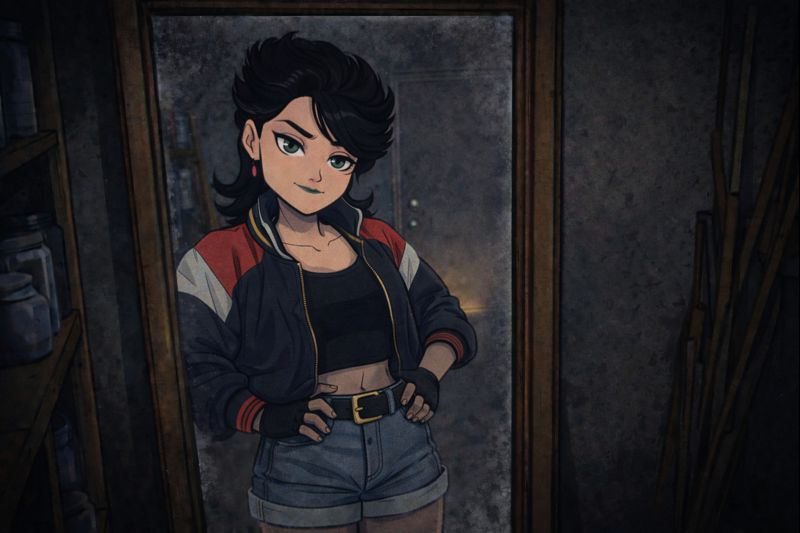
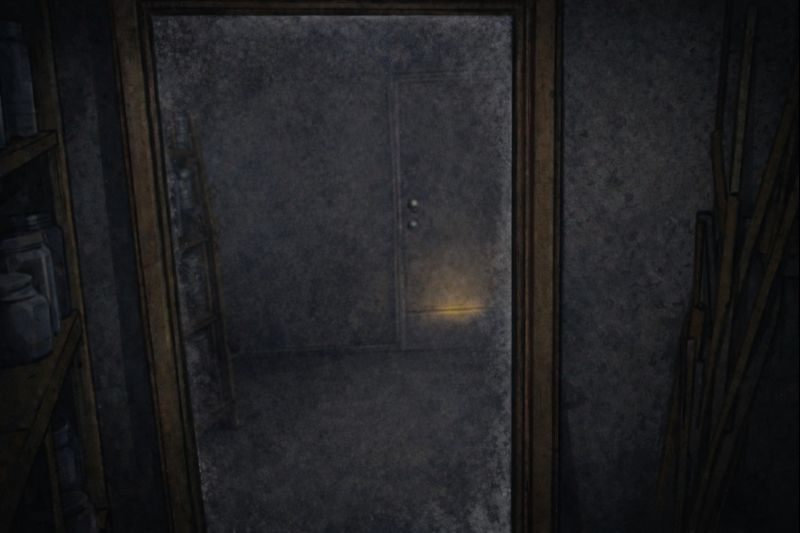
Clean up actions inside the storage unit

diff --git a/src/data/chapter01/storage-mirror.ts b/src/data/chapter01/storage-mirror.ts
@@ -1,65 +1,93 @@
 import type { SceneDefinition } from "../../types/scenes";
-import { setScene } from "../../effects/mutators";
+import { setScene, setStateLook } from "../../effects/mutators";
 
 const storageMirror: SceneDefinition = {
   id: "storage-mirror",
   name: "Storage Mirror",
-  description: "A wall-length mirror leans against the shelves, reflecting your determined expression.",
+  description:
+    "A wall-length mirror leans against the shelves, reflecting your determined expression.",
   imageSrc: "/scenes/chapter01/storage-mirror.png",
-  interactions: [],
+  interactions: [
+    {
+      label: "Turn left",
+      effect: setScene("storage-back"),
+    },
+    {
+      label: "Turn right",
+      effect: setScene("storage-vcr"),
+    },
+  ],
   objects: [
     {
-      id: "mirror_frame",
-      name: "Full-Length Mirror",
-      description: "Full-length mirror reflecting your stance.",
+      id: "mirror_frame_neutral",
+      name: "My reflection",
+      description: "Full-length mirror reflecting my stance.",
+      imageSrc: "public/scenes/chapter01/storage-mirror-neutral.png",
+      visible: (gameState) => gameState.look === "neutral",
       boundingBox: {
         x: 0.1878,
         y: 0.0008,
         width: 0.4694,
-        height: 0.995
+        height: 0.995,
       },
       interactions: [
         {
           label: "Practice a tough stare",
-          effect: setScene("storage-mirror-angry")
-        }
-      ]
+          effect: setStateLook("angry"),
+        },
+        {
+          label: "Smile at myself",
+          effect: setStateLook("happy"),
+        },
+      ],
     },
     {
-      id: "doorway_glow",
-      name: "Doorway",
-      description: "Backlit doorway inviting you toward the corridor.",
+      id: "mirror_frame_happy",
+      name: "My reflection",
+      description: "Full-length mirror reflecting my happy stance.",
+      imageSrc: "public/scenes/chapter01/storage-mirror-happy.png",
+      visible: (gameState) => gameState.look === "happy",
       boundingBox: {
-        x: 0.6978,
-        y: 0.0102,
-        width: 0.293,
-        height: 0.979
+        x: 0.1878,
+        y: 0.0008,
+        width: 0.4694,
+        height: 0.995,
       },
       interactions: [
         {
-          label: "Walk toward the exit",
-          effect: setScene("storage-exit")
-        }
-      ]
+          label: "Practice a tough stare",
+          effect: setStateLook("angry"),
+        },
+        {
+          label: "Calm down",
+          effect: setStateLook("neutral"),
+        },
+      ],
     },
     {
-      id: "shelf_edge",
-      name: "Side Shelves",
-      description: "Side shelves stacked with crates and bins.",
+      id: "mirror_frame_angry",
+      name: "My reflection",
+      description: "Full-length mirror reflecting my angry stance.",
+      imageSrc: "public/scenes/chapter01/storage-mirror-angry.png",
       boundingBox: {
-        x: 0.0051,
-        y: 0.0099,
-        width: 0.1574,
-        height: 0.9788
+        x: 0.1878,
+        y: 0.0008,
+        width: 0.4694,
+        height: 0.995,
       },
+      visible: (gameState) => gameState.look === "angry",
       interactions: [
         {
-          label: "Check on the chair",
-          effect: setScene("storage-back")
-        }
-      ]
-    }
-  ]
+          label: "Calm down",
+          effect: setStateLook("neutral"),
+        },
+        {
+          label: "Smile at myself",
+          effect: setStateLook("happy"),
+        },
+      ],
+    },
+  ],
 };
 
 export default storageMirror;

diff --git a/src/data/chapter01/storage-vcr.ts b/src/data/chapter01/storage-vcr.ts
@@ -7,7 +7,16 @@ const storageVcr: SceneDefinition = {
   description:
     "A dusty workbench holds a VCR surrounded by tools, extension cords, and paint cans.",
   imageSrc: "/scenes/chapter01/storage-vcr.png",
-  interactions: [],
+  interactions: [
+    {
+      label: "Turn left",
+      effect: setScene("storage-mirror"),
+    },
+    {
+      label: "Turn right",
+      effect: setScene("storage-exit"),
+    },
+  ],
   objects: [
     {
       id: "vcr_player",
@@ -19,12 +28,7 @@ const storageVcr: SceneDefinition = {
         width: 0.3365780141843972,
         height: 0.20688885195035478,
       },
-      interactions: [
-        {
-          label: "Head back to the chair",
-          effect: setScene("storage-back"),
-        },
-      ],
+      interactions: [],
     },
     {
       id: "tool_wall",
@@ -35,18 +39,6 @@ const storageVcr: SceneDefinition = {
         y: 0.1,
         width: 0.625434581855792,
         height: 0.46106382978723404,
-      },
-      interactions: [],
-    },
-    {
-      id: "exit-door",
-      name: "Turn right",
-      description: "The exit door is to my right.",
-      boundingBox: {
-        x: 0.8,
-        y: 0.11,
-        width: 0.2,
-        height: 0.69,
       },
       interactions: [],
     },

diff --git a/src/data/chapter01/storage-exit.ts b/src/data/chapter01/storage-exit.ts
@@ -7,7 +7,16 @@ const storageExit: SceneDefinition = {
   description:
     "An industrial metal door marked EXIT bleeds warm light through the crack at the floor.",
   imageSrc: "/scenes/chapter01/storage-exit.png",
-  interactions: [],
+  interactions: [
+    {
+      label: "Turn left",
+      effect: setScene("storage-vcr"),
+    },
+    {
+      label: "Turn right",
+      effect: setScene("storage-back"),
+    },
+  ],
   objects: [
     {
       id: "exit_door",
@@ -23,10 +32,6 @@ const storageExit: SceneDefinition = {
         {
           label: "Step outside",
           effect: setScene("storage-outside-car"),
-        },
-        {
-          label: "Return deeper inside",
-          effect: setScene("storage-back"),
         },
       ],
     },

diff --git a/src/data/scenes.ts b/src/data/scenes.ts
@@ -5,7 +5,6 @@ import storageOutsideCar from "./chapter01/storage-outside-car";
 import storageOutsideCarInside from "./chapter01/storage-outside-car-inside";
 import storageExit from "./chapter01/storage-exit";
 import storageShelf from "./chapter01/storage-shelf";
-import storageMirrorAngry from "./chapter01/storage-mirror-angry";
 import storageVcr from "./chapter01/storage-vcr";
 import storeEntrance from "./chapter01/store-entrance";
 import storeHardware from "./chapter01/store-hardware";
@@ -18,7 +17,6 @@ export const scenes: SceneDefinition[] = [
   storageExit,
   storageShelf,
   storageMirror,
-  storageMirrorAngry,
   storageVcr,
   storeEntrance,
   storeHardware,

diff --git a/src/effects/useGameState.ts b/src/effects/useGameState.ts
@@ -3,12 +3,15 @@ import { initialSceneId } from "../data/scenes";
 import { ObjectInteraction, SceneId } from "../types/scenes";
 import { InventoryItemId } from "../types/inventory";
 
+export type GameStateLook = 'neutral' | 'happy' | 'angry';
+
 export type GameState = {
   currentSceneId: SceneId;
   chairFixed: boolean;
   hasDuctTape: boolean;
   inventory: InventoryItemId[];
   message: string | null;
+  look: GameStateLook;
 };
 
 const createInitialGameState = (): GameState => ({
@@ -17,6 +20,7 @@ const createInitialGameState = (): GameState => ({
   hasDuctTape: false,
   inventory: [],
   message: null,
+  look: 'neutral',
 });
 
 export const useGameState = () => {

diff --git a/src/effects/mutators.ts b/src/effects/mutators.ts
@@ -1,6 +1,6 @@
 import { InventoryItemId } from "../types/inventory";
 import { SceneId } from "../types/scenes";
-import { GameState } from "./useGameState";
+import { GameState, GameStateLook } from "./useGameState";
 
 export const setScene = (sceneId: SceneId) => {
   return (state: GameState): GameState => {
@@ -19,6 +19,15 @@ export const addToInventory = (itemId: InventoryItemId) => {
     return {
       ...state,
       inventory: [...state.inventory, itemId],
+    };
+  };
+};
+
+export const setStateLook = (look: GameStateLook) => {
+  return (state: GameState): GameState => {
+    return {
+      ...state,
+      look,
     };
   };
 };

diff --git a/src/data/chapter01/storage-back.ts b/src/data/chapter01/storage-back.ts
@@ -10,11 +10,11 @@ const storageBack: SceneDefinition = {
   interactions: [
     {
       label: "Turn left",
-      effect: setScene("storage-mirror"),
+      effect: setScene("storage-exit"),
     },
     {
       label: "Turn right",
-      effect: setScene("storage-vcr"),
+      effect: setScene("storage-mirror"),
     },
   ],
   objects: [

diff --git a/src/types/scenes.ts b/src/types/scenes.ts
@@ -5,11 +5,10 @@ export type SceneId =
   | "storage-back"
   | "storage-shelf-car-keys"
   | "storage-exit"
-  | "storage-mirror-angry"
   | "storage-mirror"
+  | "storage-vcr"
   | "storage-outside-car-inside"
   | "storage-outside-car"
-  | "storage-vcr"
   | "store-entrance"
   | "store-hardware-ducttape"
   | "store-hardware";
